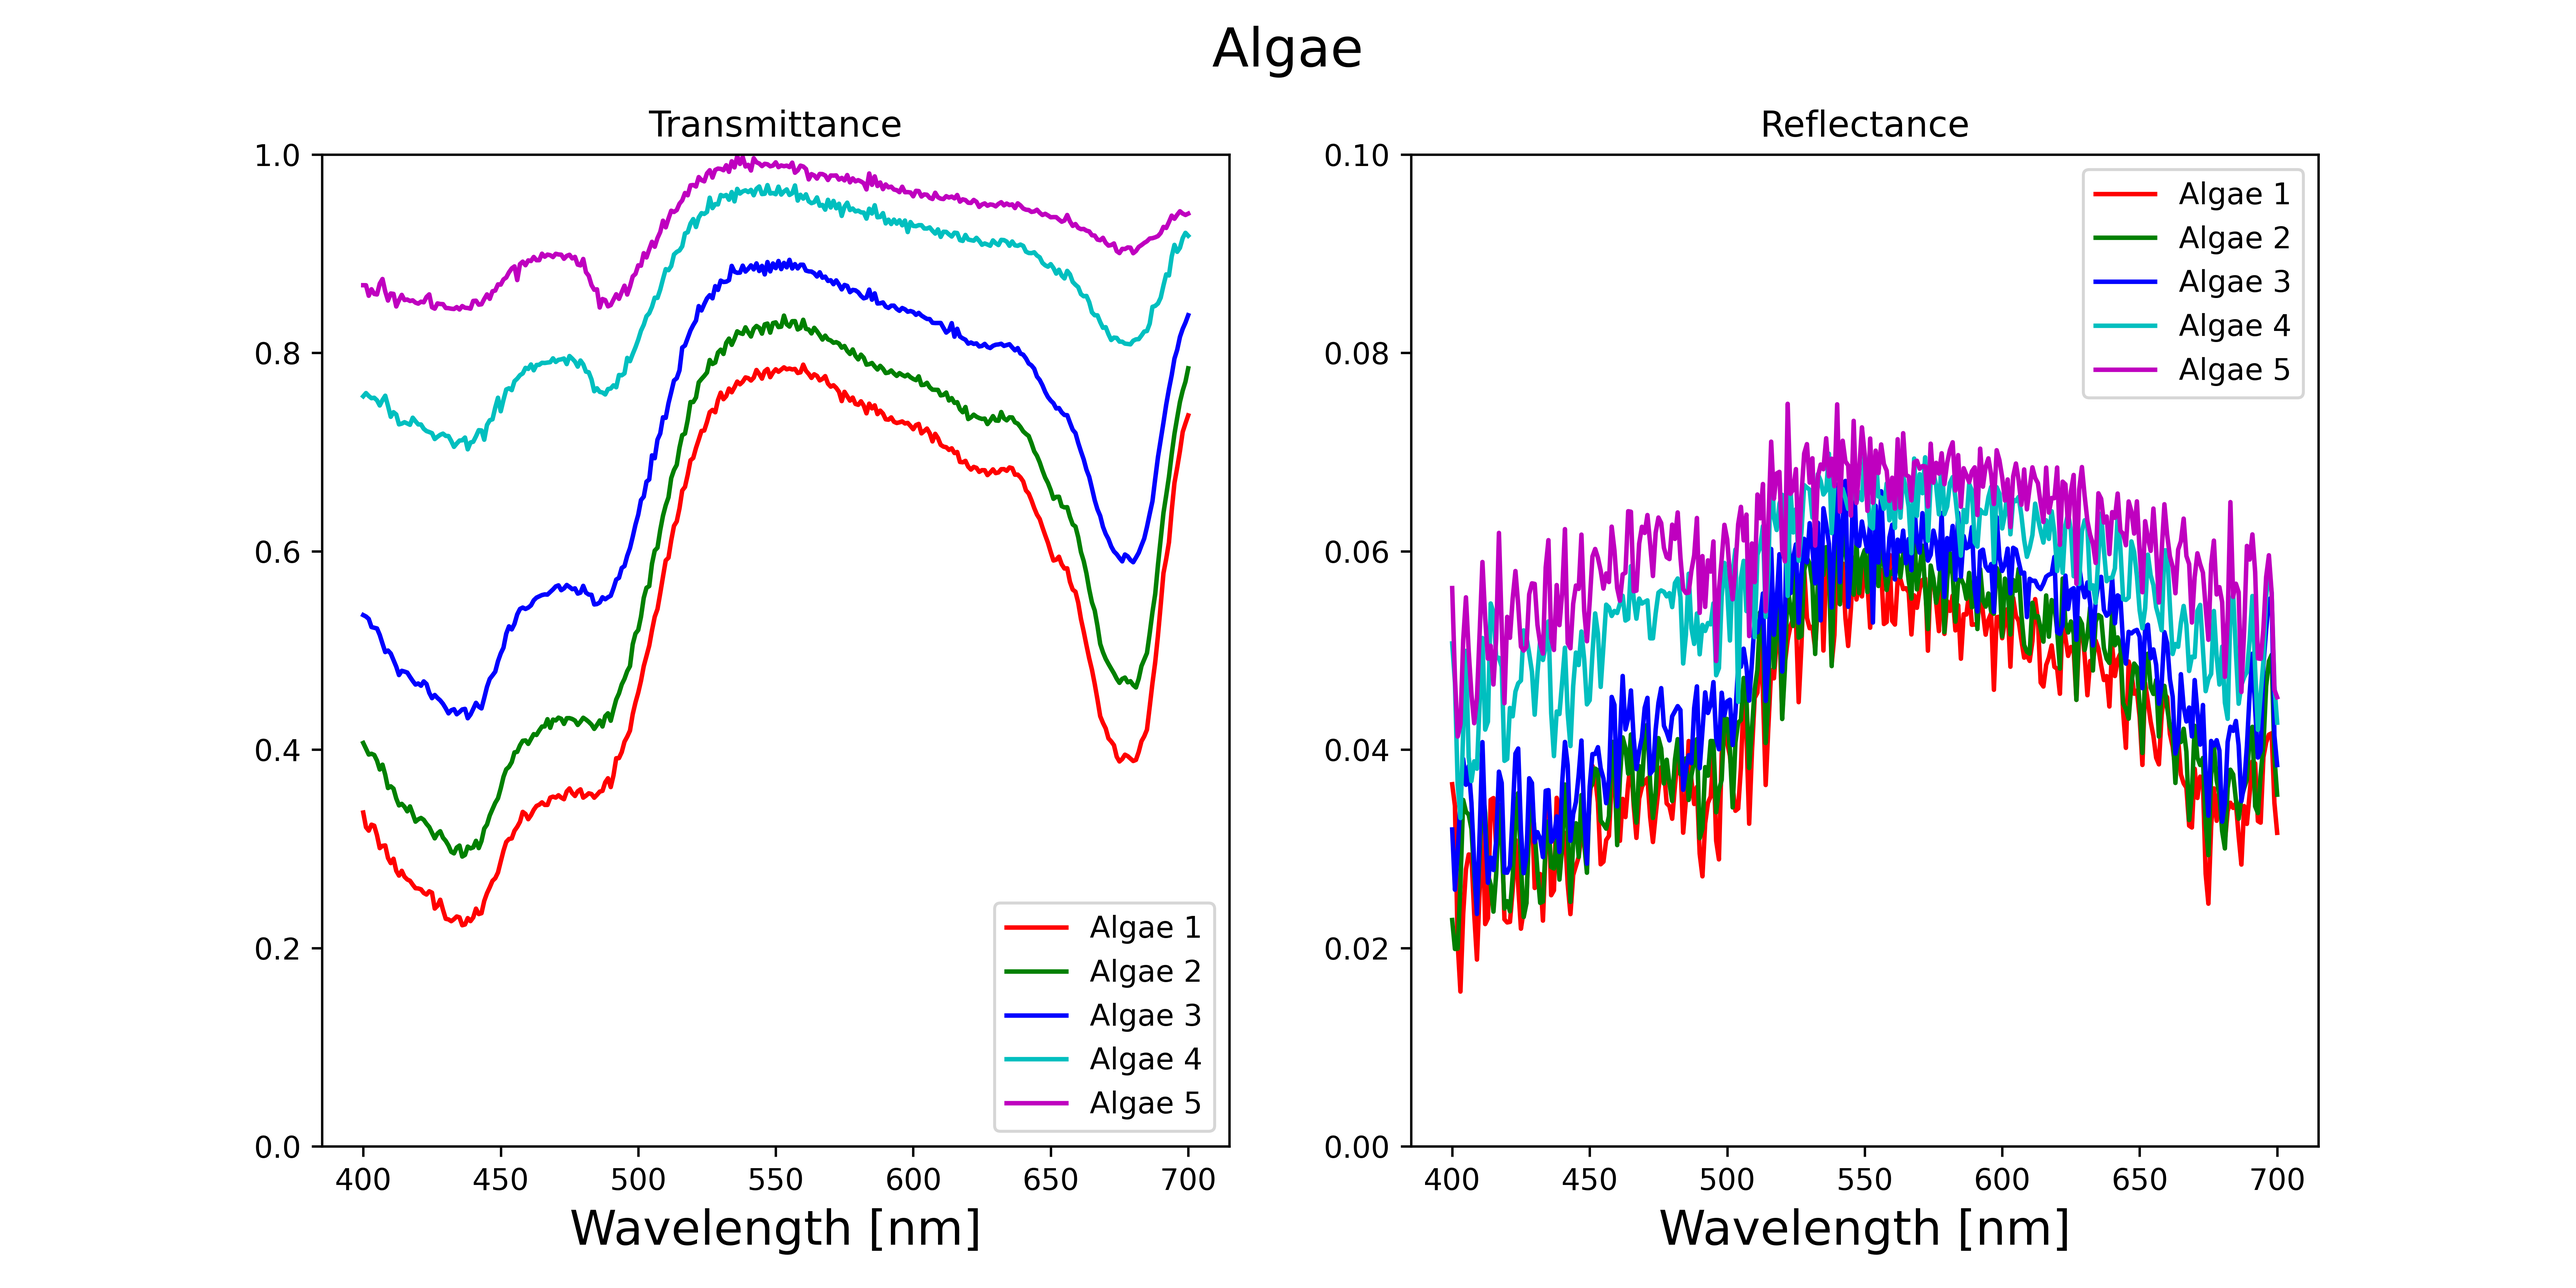
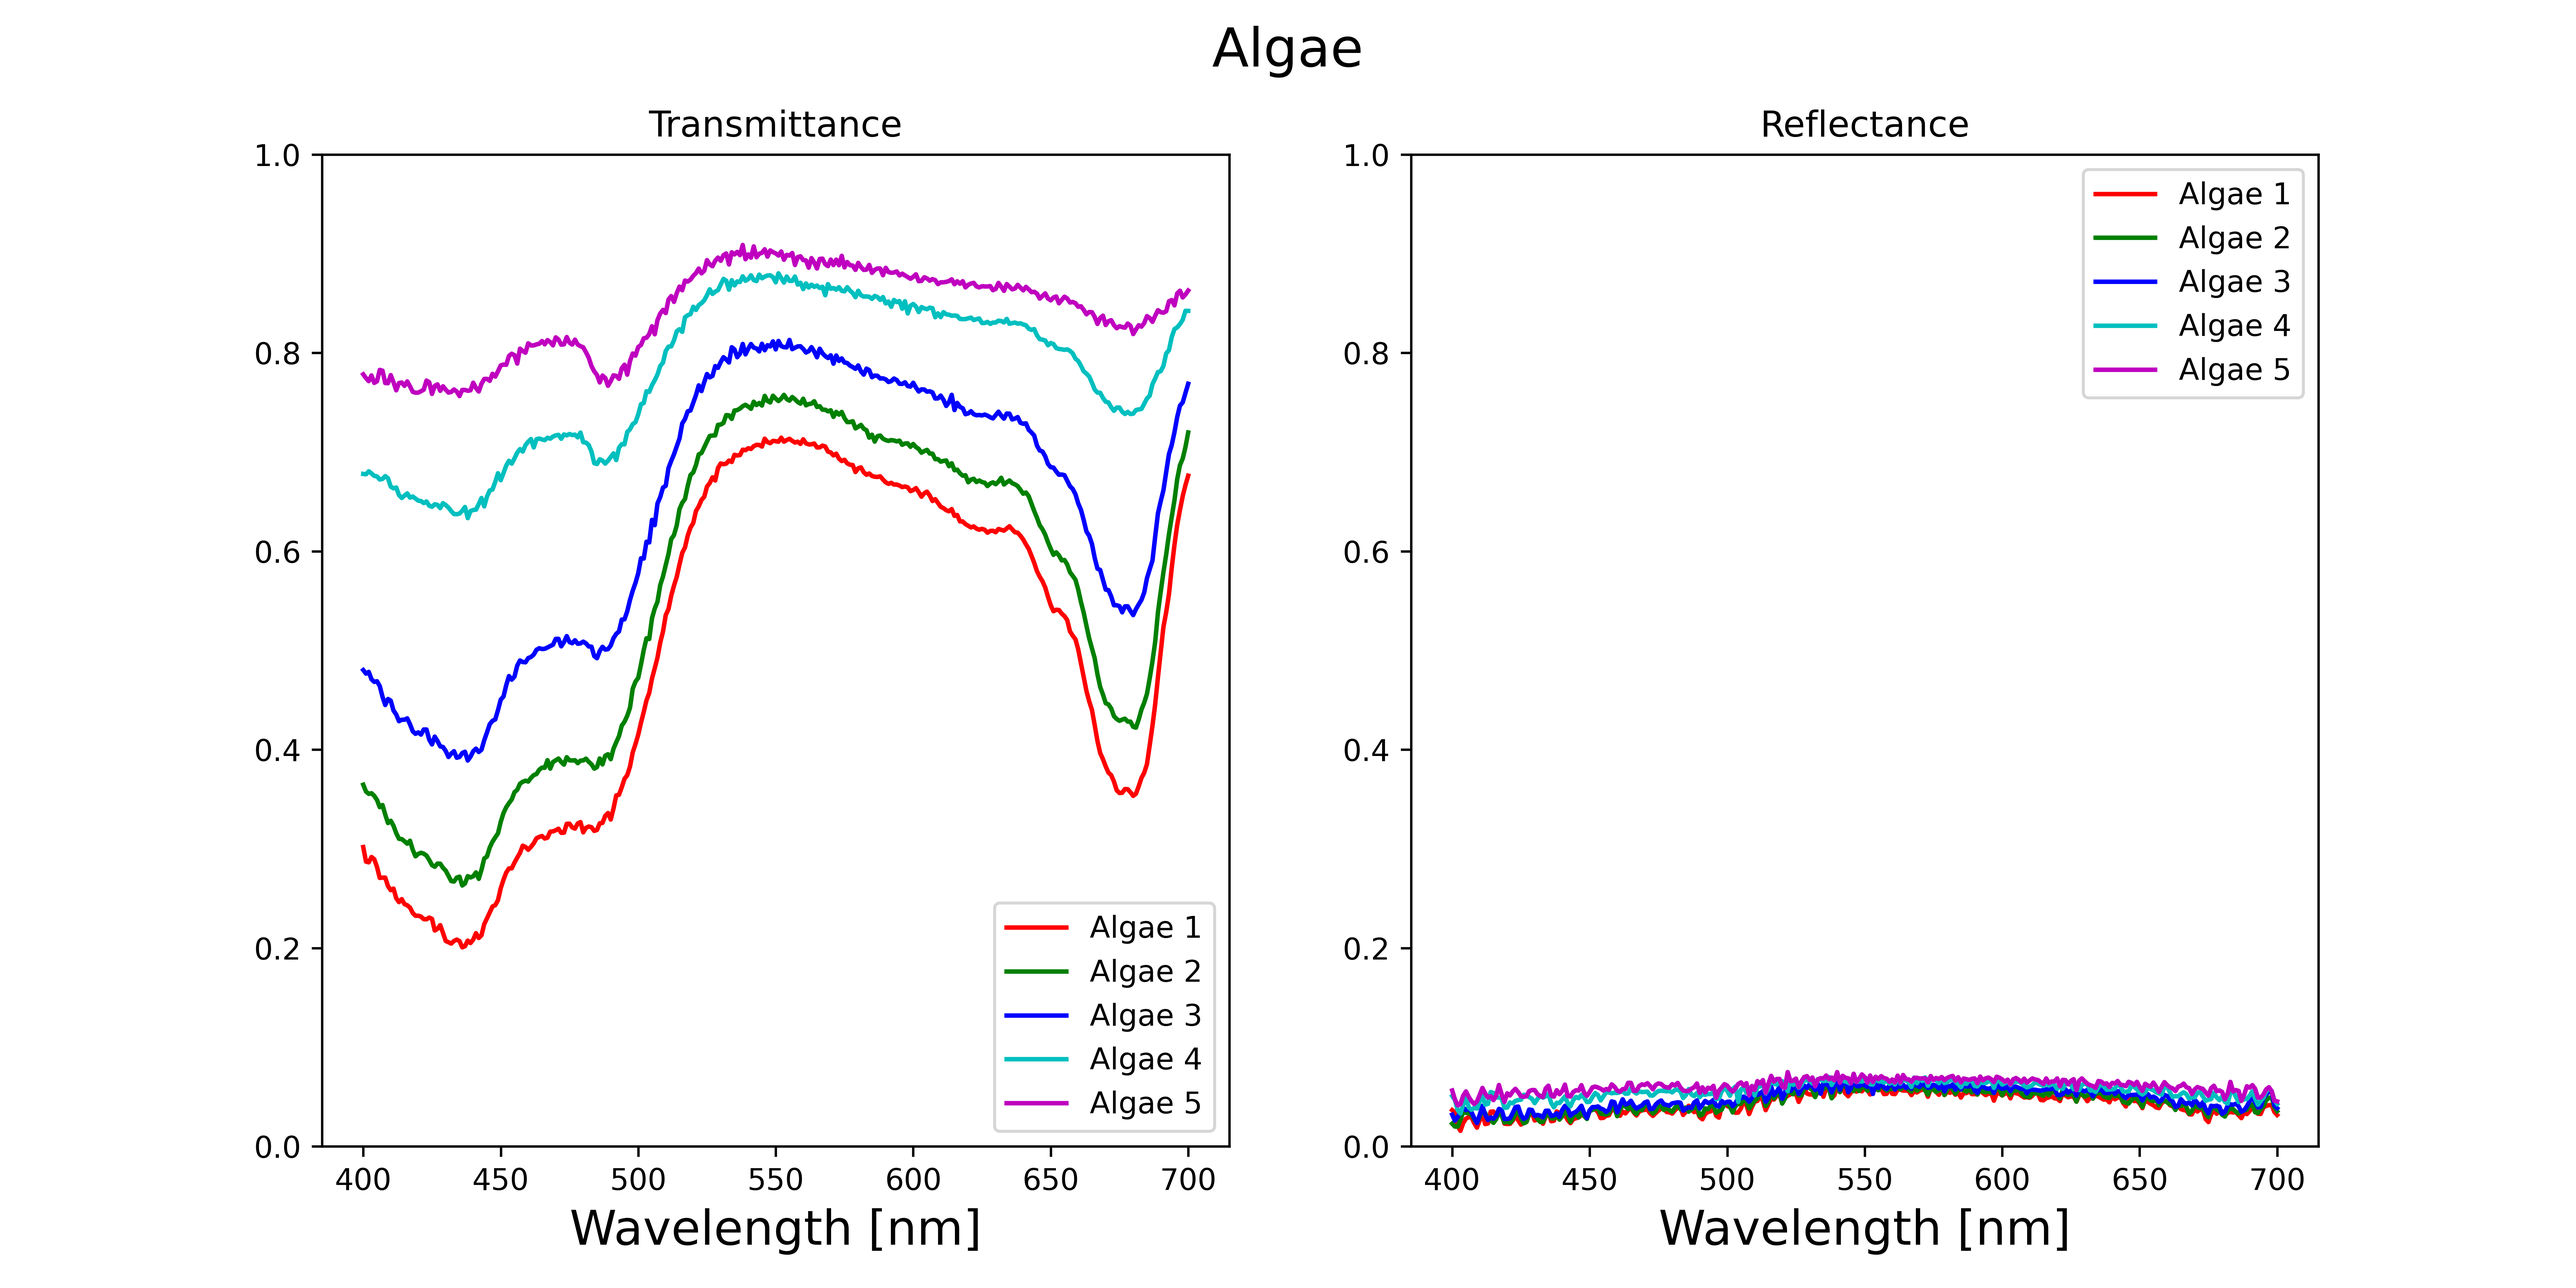
Algae sample normalized to light plug

diff --git a/src/__main__.py b/src/__main__.py
@@ -147,10 +147,17 @@ def iterative_train():
     # surf_model_name = FN.get_surface_model_save_name(set_name_iter_4)
 
 
-def algae_leaf(set_name):
+def solve_all_algae_leaves():
+
+    for i in range(1,6):
+        name = f"algae_sample_{i}"
+        algae_leaf(set_name=name, sample_nr=i)
+
+
+def algae_leaf(set_name, sample_nr):
     """Solve algae parameters as a leaf (hack so no new code needed)."""
 
-    wls, refl, tran = M.plot_algae(save_thumbnail=True, dont_show=True)
+    wls, refl, tran = M.plot_algae(save_thumbnail=True, dont_show=True, ret_sampl_nr=sample_nr)
     wls = np.flip(wls)
     refl = np.flip(refl)
     tran = np.flip(tran)
@@ -256,22 +263,23 @@ def make_kettles(light_max_pow=100):
         print(f"\tRadius [m]:      glass = {r_g}, steel {r_s}")
         print(f"\tHeight [m]:      glass = {h_g}, steel {h_s}")
         print(f"\tVolume [m^3]:    glass = {V_g}, steel {V_s} (diff {V_diff})")
+        print(f"\tLamp count: {n} (c1: {n1}, c2:{n2}, c3 {n3})")
         print(f"\tLamp area [m^2]: glass = {A_g}, steel {A_l} (diff {A_diff})")
         print(f"\tRod lamp volume [m^3]: {V_l}")
         print(f"\tRod lamp radius [m]: {r_l}")
 
-        material_name = "Reactor content material"
-        algae_leaves = [(algae_leaf_set_name, 0, material_name)]
-
-        # Steel kettle
-        forest_id = forest.init(leaves=algae_leaves, rng=rng, custom_forest_id=f"reactor_steel_{target_vol}", sun_file_name="AP67_spectra.txt")
-        BC.setup_forest(forest_id=forest_id, leaf_name_list=[material_name], r_kettle=r_s, kettle_type="steel", r_lamp=r_l,
-                        n1=n1, n2=n2, n3=n3, n_rings=n_rings, top_cam_height=top_cam_height, light_max_pow=light_max_pow)
-
-        # Glass kettle
-        forest_id = forest.init(leaves=algae_leaves, rng=rng, custom_forest_id=f"reactor_glass_{target_vol}", sun_file_name="AP67_spectra.txt")
-        BC.setup_forest(forest_id=forest_id, leaf_name_list=[material_name], r_kettle=r_g, kettle_type="glass", top_cam_height=top_cam_height,
-                        light_max_pow=light_max_pow)
+        # material_name = "Reactor content material"
+        # algae_leaves = [(algae_leaf_set_name, 0, material_name)]
+        #
+        # # Steel kettle
+        # forest_id = forest.init(leaves=algae_leaves, rng=rng, custom_forest_id=f"reactor_steel_{target_vol}", sun_file_name="AP67_spectra.txt")
+        # BC.setup_forest(forest_id=forest_id, leaf_name_list=[material_name], r_kettle=r_s, kettle_type="steel", r_lamp=r_l,
+        #                 n1=n1, n2=n2, n3=n3, n_rings=n_rings, top_cam_height=top_cam_height, light_max_pow=light_max_pow)
+        #
+        # # Glass kettle
+        # forest_id = forest.init(leaves=algae_leaves, rng=rng, custom_forest_id=f"reactor_glass_{target_vol}", sun_file_name="AP67_spectra.txt")
+        # BC.setup_forest(forest_id=forest_id, leaf_name_list=[material_name], r_kettle=r_g, kettle_type="glass", top_cam_height=top_cam_height,
+        #                 light_max_pow=light_max_pow)
 
     # Equation for WA
     # r_g^3 - x^3 + (r_g^4 / (n * x))
@@ -376,13 +384,16 @@ if __name__ == '__main__':
     material_name = "Reactor content material"
     light_max_pow = 100 # W / m^2
 
+
+    solve_all_algae_leaves()
+
     # Solve algae as a leaf
     # algae_leaf(set_name=algae_leaf_set_name)
 
     # These 3 lines do everything at once
     # make_kettles()
     # render_cubes(light_max_pow=light_max_pow)
-    show_cubes()
+    # show_cubes()
 
     # BC.render_forest(forest_id="reactor_glass_100",render_mode='top', light_max_pow=light_max_pow)
     # CH.construct_envi_cube(forest_id="reactor_glass_100", light_max_power=light_max_pow)

diff --git a/src/algae/measurement_spec_01_09_23.py b/src/algae/measurement_spec_01_09_23.py
@@ -1,4 +1,4 @@
-
+import logging
 import os
 import numpy as np
 import matplotlib.pyplot as plt
@@ -98,7 +98,7 @@ def plot_references(dont_show=True, save_thumbnail=True):
         plt.show()
 
 
-def plot_algae(dont_show=True, save_thumbnail=True):
+def plot_algae(dont_show=True, save_thumbnail=True, ret_sampl_nr=1):
 
     fig, ax = plt.subplots(nrows=1, ncols=2, figsize=plotter.figsize)
     fig.suptitle(f"Algae", fontsize=plotter.fig_title_font_size)
@@ -150,14 +150,28 @@ def plot_algae(dont_show=True, save_thumbnail=True):
 
     wls = utils.range(wls=wls, low=low, high=high, val=wls)
 
-    diff_we_t = val_dit / val_et
+    # Attempt to normilize transmittance to empty cuvette
+    # Works ok for transmittance
+    # val_dit_mean = np.mean(val_dit)
+    # val_et_mean = np.mean(val_et)
+    # diff_we_t = val_dit / val_et
+    # mean_we_t = np.mean(diff_we_t)
+    # final_ref_t = val_et * mean_we_t
+
+    # Normalize to lamp white
+    final_ref_t = val_light_before
+
+    # Attempt to normilize reflectance to empty cuvette
+    # Does not really work as we would be dividing with a small number
+    #   that explodes the final reflectance value, resulting in negative
+    #   absorption
+    # val_dir_mean = np.mean(val_dir)
+    # val_er_mean = np.mean(val_er)
     # diff_we_r = val_dir / val_er
-
-    mean_we_t = np.mean(diff_we_t)
     # mean_we_r = np.mean(diff_we_r)
-
-    final_ref_t = val_et * mean_we_t
     # final_ref_r = val_er * mean_we_r
+
+    # Normalize to lamp white
     final_ref_r = val_light_before
 
     # Reference
@@ -234,7 +248,7 @@ def plot_algae(dont_show=True, save_thumbnail=True):
 
     ylim = [0,1.0]
     ax[0].set_ylim(ylim)
-    ax[1].set_ylim([0,0.1])
+    ax[1].set_ylim([0,1.0])
 
     ax[0].legend()
     ax[1].legend()
@@ -245,4 +259,17 @@ def plot_algae(dont_show=True, save_thumbnail=True):
     if not dont_show:
         plt.show()
 
-    return wls, val_a1r, val_a1t
+    if ret_sampl_nr == 1:
+        return wls, val_a1r, val_a1t
+    elif ret_sampl_nr == 2:
+        return wls, val_a2r, val_a2t
+    elif ret_sampl_nr == 3:
+        return wls, val_a3r, val_a3t
+    elif ret_sampl_nr == 4:
+        return wls, val_a4r, val_a4t
+    elif ret_sampl_nr == 5:
+        return wls, val_a5r, val_a5t
+    else:
+        logging.warning(f"Unsupported sample number {ret_sampl_nr}")
+        pass
+
